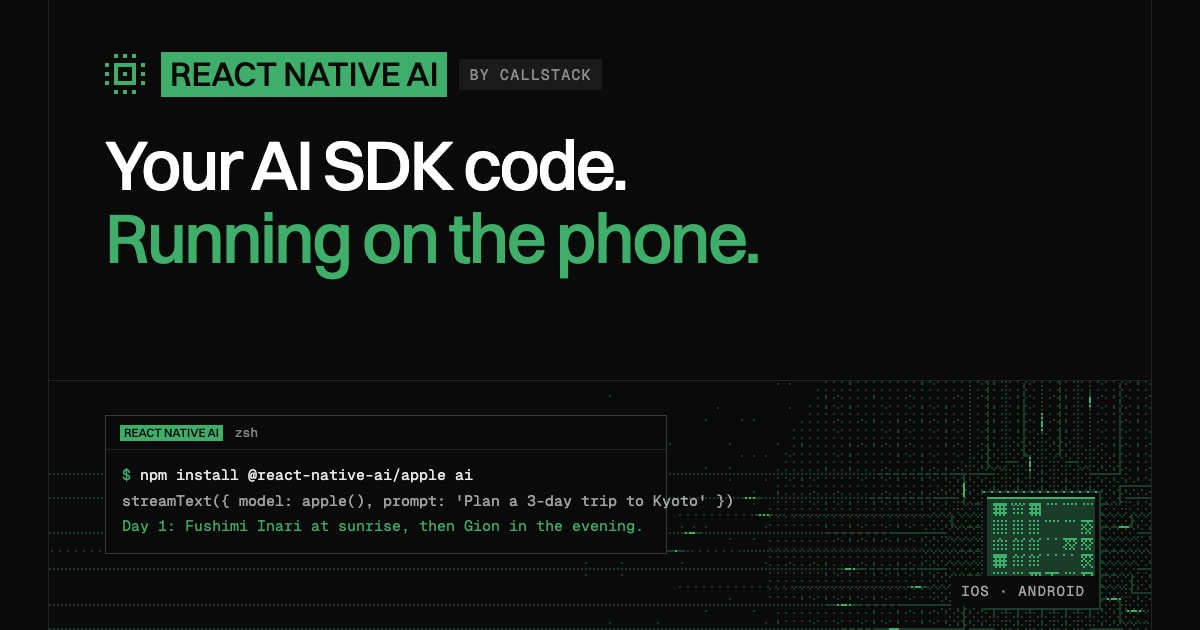
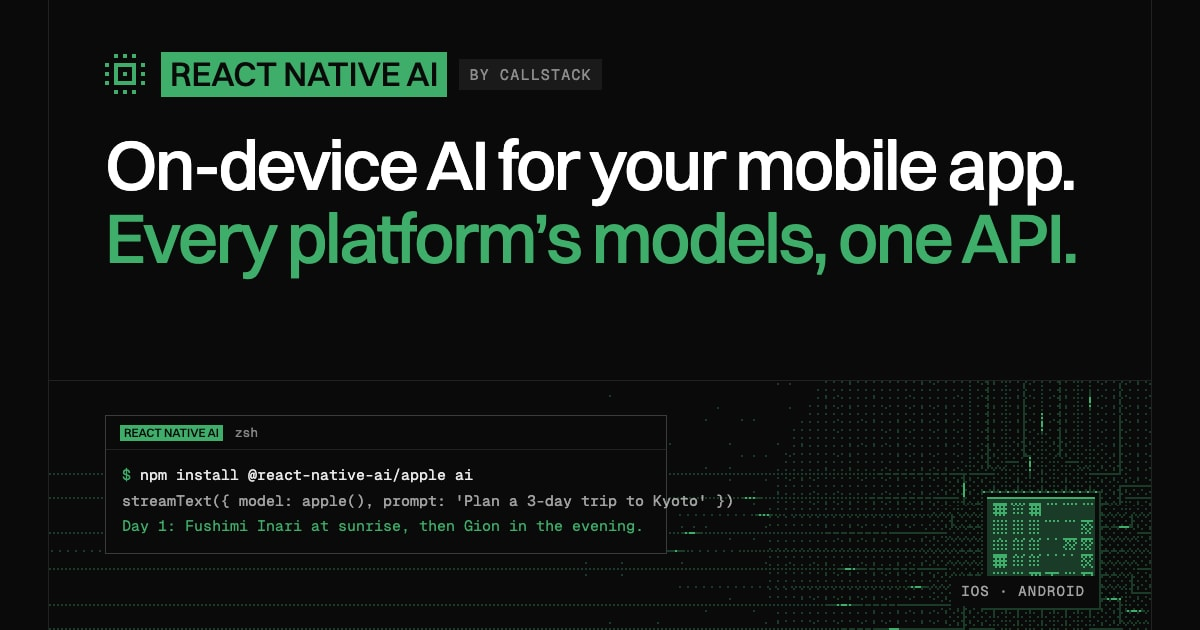
feat(website): lead with on-device ai and one api across platforms

Changed region(s): [[0.0925, 0.2111, 0.8942, 0.4524]]

diff --git a/website/src/site/content.ts b/website/src/site/content.ts
@@ -19,18 +19,18 @@ export const site = {
    * What it is, in a few words. The home page title is "Name: subtitle" (src/site/meta.ts),
    * 60 characters at most in all.
    */
-  subtitle: 'The AI SDK, running on device',
+  subtitle: 'On-device AI for React Native apps',
   /** The motto, in two beats. Used by the hero, the social card and the banner. */
-  headline: ['Your AI SDK code.', 'Running on the phone.'],
+  headline: ['On-device AI for your mobile app.', 'Every platform’s models, one API.'],
   /** The hero lede: one or two sentences, naming who it is for. */
-  lede: 'Vercel AI SDK providers for React Native that run models on your users’ devices. Keep the calls you already write; the answer comes from Apple Intelligence, Gemini Nano or a model you ship, with no server and no API key.',
+  lede: 'Run the models each platform provides, or your own, right on your users’ devices. Drop-in Vercel AI SDK providers for React Native: swap the model per platform and keep the rest of your code. No server, no API key.',
   /** The meta description: 160 characters at most. */
-  description: 'Run Vercel AI SDK code on device in React Native: Apple Foundation Models, Core AI, Gemini Nano and llama.rn. No server, no API key, works offline.',
+  description: 'On-device AI for React Native apps: Apple Foundation Models, Core AI, Gemini Nano and llama.rn as drop-in Vercel AI SDK providers. No server, no API key.',
   install: 'npm install @react-native-ai/apple ai',
   /** The agent skill install, in the short owner/repo form. Remove it if there is no skill. */
-  skill: 'npx skills add callstackincubator/ai' as string | undefined,
+  skill: undefined as string | undefined,
   /** Alt text for the social card (public/og-image.jpg): the lockup, the motto, the picture. */
-  ogAlt: 'React Native AI by Callstack. Your AI SDK code. Running on the phone. A streamText call next to a phone streaming its reply offline.',
+  ogAlt: 'React Native AI by Callstack. On-device AI for your mobile app. Every platform’s models, one API. A streamText call next to a phone streaming its reply offline.',
   /** Who holds the copyright in the footer: "© YEAR PRODUCT BY CALLSTACK". */
   owner: 'Callstack',
   callstack: 'https://callstack.com/?utm_source=react-native-ai.dev&utm_medium=referral',
@@ -252,7 +252,7 @@ export const runtimes = [
     pkg: '@react-native-ai/llama',
     models: 'Any GGUF from Hugging Face',
     owner: 'community' as const,
-    body: 'The portable option: an AI SDK provider over the community llama.rn binding, for any GGUF model on both platforms.',
+    body: 'The portable option: an AI SDK provider over the third-party llama.rn binding, for any GGUF model on both platforms.',
     href: docs.llama,
     file: 'llama.ts',
     code: code.llama,
@@ -264,7 +264,7 @@ export const home = {
   /** The `zsh` window beside the hero copy (hidden below 64rem): setup in a few lines. */
   setup: [
     { cmd: site.install },
-    { comment: 'for you: the Apple provider and the AI SDK' },
+    { comment: 'the Apple provider and the AI SDK' },
     ...(site.skill ? [{ cmd: site.skill }, { comment: 'for your agent: the skill' }] : []),
   ] as ({ cmd: string } | { comment: string })[],
 
@@ -279,9 +279,9 @@ export const home = {
     label: 'How it works',
     headline: ['Swap the model.', 'Keep the code.'],
     steps: [
-      { title: 'Install a provider', body: 'Pick the runtime for your platform and add it next to the AI SDK.', cmd: site.install },
-      { title: 'Add the polyfills', body: 'React Native needs streams and `structuredClone` for the AI SDK. One file, loaded first.', cmd: 'npm install @ungap/structured-clone @stardazed/streams-text-encoding' },
-      { title: 'Call the AI SDK', body: 'Pass the provider’s model to `generateText`, `streamText`, `embed` or any other AI SDK function.', cmd: 'npx expo run:ios --device' },
+      { title: 'Install the providers', body: 'Add the provider for each platform you ship to, next to the AI SDK.', cmd: site.install },
+      { title: 'Pick a model per platform', body: 'Use `apple()` on iOS and `adk()` on Android, or a model you ship with Core AI or Llama.', cmd: 'npm install @react-native-ai/adk' },
+      { title: 'Call the AI SDK', body: 'Pass the model to `generateText`, `streamText`, `embed` or any other AI SDK function. The rest of your code stays the same.', cmd: 'npx expo run:ios' },
     ],
     /** One tab per runtime, each with its real setup snippet. */
     tabs: runtimes.map((r) => ({
@@ -291,7 +291,7 @@ export const home = {
       lang: 'ts',
       code: r.code,
       pkg: r.pkg,
-      note: r.owner === 'native' ? `${r.runtime}, through a native module we build.` : `${r.runtime}, through the community binding.`,
+      note: r.owner === 'native' ? `${r.runtime}, provided by the platform: native and fast.` : `${r.runtime}, through the third-party llama.rn binding.`,
       href: r.href,
     })),
   },
@@ -299,7 +299,7 @@ export const home = {
   runtimes: {
     label: 'Runtimes',
     headline: ['The fastest runtime on each platform.', 'One API over all of them.'],
-    lede: 'Apple, Core AI and ADK are native modules we build against each platform’s own AI stack, so they get its system models and hardware acceleration. Llama is a provider over the community llama.rn binding, for when you need the same GGUF model on iOS and Android.',
+    lede: 'Apple, Core AI and ADK run on the AI stack the platform provides: native, hardware-accelerated and with its system models. Llama runs any GGUF model on iOS and Android through llama.rn, a third-party binding.',
   },
 
   feature: {

diff --git a/docs/DESIGN.md b/docs/DESIGN.md
@@ -68,7 +68,7 @@ the mark, then the wordmark `REACT NATIVE AI` (`on-accent` on an `accent` block)
 | Code | Geist Mono | 0.8125rem, line height 1.75 | 400 |
 
 Both fonts are free and self-hosted in `website/src/fonts/`. Headlines run in two beats with
-the second in the accent: "Your AI SDK code. *Running on the phone.*" That is the motto. Mono
+the second in the accent: "On-device AI for your mobile app. *Every platform’s models, one API.*" That is the motto. Mono
 is for labels only, never full sentences. Platforms are always in the order iOS, Android, and
 runtimes in the order Apple, Core AI, ADK, Llama.
 
@@ -93,8 +93,8 @@ type sizes scaled from the hero headline.
 - **Phone:** a `#050505` slab with 4px-stepped corners and a 1px `#313131` outline that follows
   the steps. Inside: a mono status row (`9:41`, `✈ AIRPLANE MODE`), the user's bubble on an
   accent fill, the reply in a hairline box, and an accent square marking `apple() · on device`.
-- **Runtime cells:** one per runtime, labelled `NATIVE MODULE · OURS` (accent) for Apple, Core AI
-  and ADK, or `COMMUNITY BINDING` (muted) for Llama, which wraps llama.rn.
+- **Runtime cells:** one per runtime, labelled `NATIVE · BY CALLSTACK` (accent) for Apple, Core AI
+  and ADK, or `THIRD-PARTY BINDING` (muted) for Llama, which wraps llama.rn.
 - **Closing:** a full-width accent CTA bar, the giant accent wordmark, then one footer row.
 
 ## Pixel imagery
@@ -125,10 +125,9 @@ about 12 fps for dither, and cuts rather than cross-fades.
 
 ## Words
 
-Plain and specific. Say what becomes possible: the reader's AI SDK code runs on the phone, with
-no server and no API key. Keep API names out of headlines and ledes. Be explicit that Apple,
-Core AI and ADK are native modules Callstack builds, and that Llama is a provider over the
-community llama.rn binding. Page titles are `React Native AI: The AI SDK, running on device` on
+Plain and specific. Say what becomes possible: on-device AI in a mobile app, using the models
+each platform provides, through one drop-in AI SDK API, with no server and no API key. Keep API names out of headlines and ledes. Apple, Core AI and ADK are native (`NATIVE · BY CALLSTACK`): they run on the AI stack the
+platform provides. Llama is a `THIRD-PARTY BINDING`: a provider over llama.rn. Page titles are `React Native AI: On-device AI for React Native apps` on
 the home page and `Page title | React Native AI` elsewhere. Facts come only from the docs: no
 invented benchmarks, adopters or testimonials. Mark JSON UI as experimental.
 
